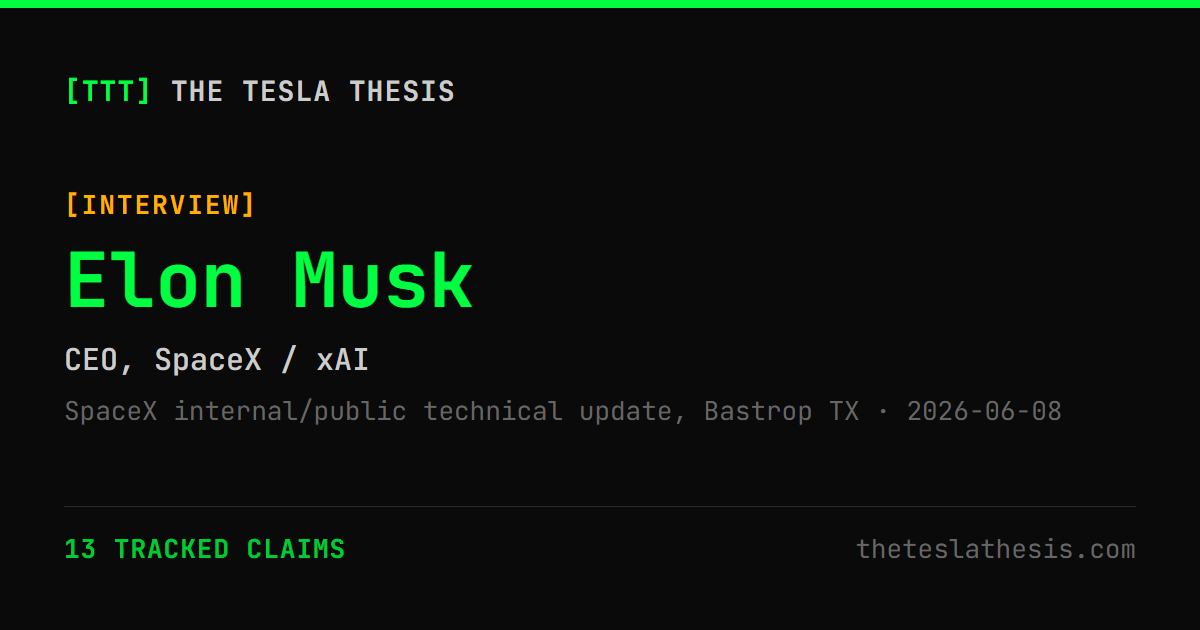
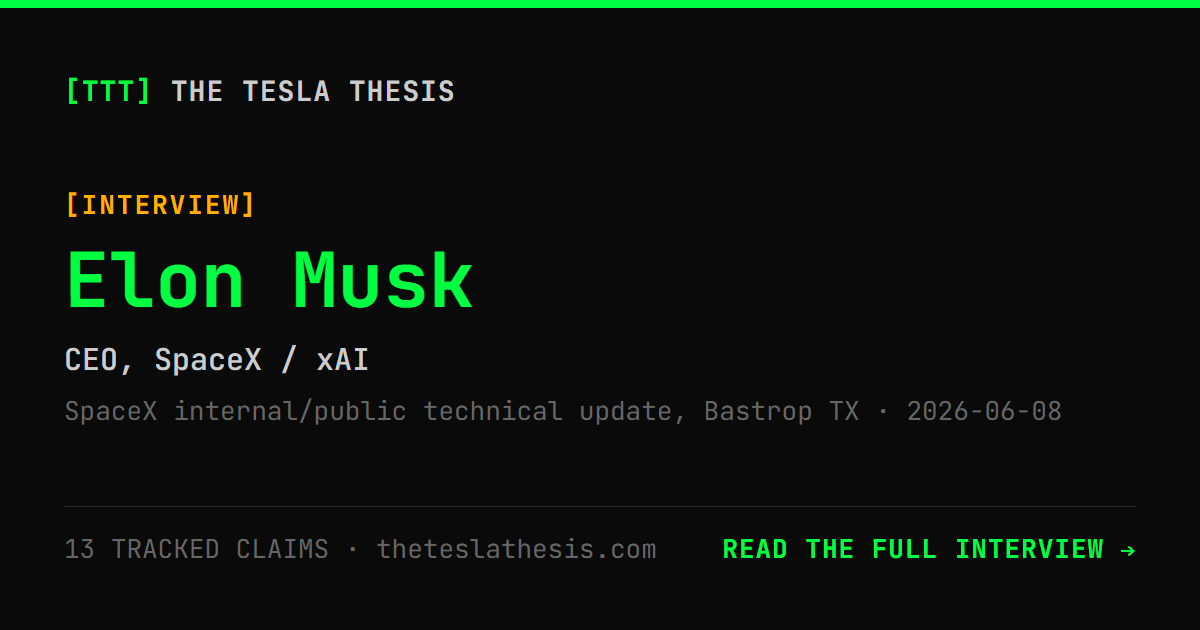
interviews: tune OG/meta descriptions + add card CTA
Addresses opengraph.xyz warnings on the /i/<slug>/ pages:
- og:description/twitter:description now ~120 chars (was 196) — fits
  social card previews without truncation
- meta description now ~150 chars — SERP snippet sweet spot (120-160)
- both truncate at a sentence/word boundary instead of mid-word
- OG card: swap the plain domain for a green "READ THE FULL INTERVIEW →"
  call-to-action (domain kept alongside the claims count, dimmed)

Regenerated the two committed cards.

Changed region(s): [[0.0617, 0.8444, 0.555, 0.9048], [0.5858, 0.8444, 0.9558, 0.9048]]

diff --git a/scripts/build-interview-pages.js b/scripts/build-interview-pages.js
@@ -35,8 +35,9 @@ function venueShort(venue) {
 }
 
 // First prose paragraph of the summary (the opening scene-setter), flattened to
-// a plain-text meta description of ~200 chars.
-function description(summary) {
+// plain text. Truncation happens per-target in buildShell (social vs SERP want
+// different lengths).
+function firstParagraph(summary) {
   const lines = summary.split('\n');
   const para = [];
   for (const line of lines) {
@@ -47,14 +48,17 @@ function description(summary) {
     }
     para.push(t);
   }
-  let text = para.join(' ')
-    .replace(/\*\*/g, '')
-    .replace(/\s+/g, ' ')
-    .trim();
-  if (text.length > 200) {
-    text = text.slice(0, 200).replace(/\s+\S*$/, '') + '…';
-  }
-  return text;
+  return para.join(' ').replace(/\*\*/g, '').replace(/\s+/g, ' ').trim();
+}
+
+// Truncate to <=max, preferring a sentence boundary, else a word boundary (with
+// an ellipsis). No trailing ellipsis when we land cleanly on a sentence end.
+function truncate(text, max) {
+  if (text.length <= max) return text;
+  const slice = text.slice(0, max);
+  const lastSentence = slice.lastIndexOf('. ');
+  if (lastSentence > max * 0.6) return slice.slice(0, lastSentence + 1);
+  return slice.replace(/\s+\S*$/, '').trim() + '…';
 }
 
 function setMetaContent(html, matchAttr, value) {
@@ -72,7 +76,10 @@ function buildShell(template, iv) {
   const url = `${SITE}/i/${iv.slug}/`;
   const ogTitle = `${name} on ${venue}`;
   const pageTitle = `${ogTitle} | The Tesla Thesis`;
-  const desc = description(iv.summary) || `Primary-source interview summary and tracked claims from ${name}, on The Tesla Thesis.`;
+  const para = firstParagraph(iv.summary) || `Primary-source interview summary and tracked claims from ${name}, on The Tesla Thesis.`;
+  // SERP meta descriptions read best at ~150-160; social cards truncate ~125.
+  const desc = truncate(para, 155);
+  const socialDesc = truncate(para, 120);
   // Per-interview OG card if it was rendered + committed (public/og → dist/og);
   // otherwise the generic site card already in the template.
   const image = fs.existsSync(path.join(DIST, 'og', `${iv.slug}.png`)) ? `${SITE}/og/${iv.slug}.png` : null;
@@ -82,10 +89,10 @@ function buildShell(template, iv) {
   html = html.replace(/(<link rel="canonical"[^>]*href=")[^"]*("[^>]*>)/, `$1${url}$2`);
   html = setMetaContent(html, 'name="description"', desc);
   html = setMetaContent(html, 'property="og:title"', ogTitle);
-  html = setMetaContent(html, 'property="og:description"', desc);
+  html = setMetaContent(html, 'property="og:description"', socialDesc);
   html = setMetaContent(html, 'property="og:url"', url);
   html = setMetaContent(html, 'name="twitter:title"', ogTitle);
-  html = setMetaContent(html, 'name="twitter:description"', desc);
+  html = setMetaContent(html, 'name="twitter:description"', socialDesc);
   // og:type website → article for a content page
   html = html.replace(/(<meta property="og:type"[^>]*content=")[^"]*("[^>]*>)/, `$1article$2`);
   if (image) {

diff --git a/scripts/build-og-images.js b/scripts/build-og-images.js
@@ -73,8 +73,8 @@ function cardHtml(iv) {
   .role { color: ${C.textBright}; font-size: 30px; font-weight: 500; margin-top: 20px; }
   .meta { color: ${C.textDim}; font-size: 26px; margin-top: 14px; }
   .foot { display: flex; justify-content: space-between; align-items: baseline; border-top: 1px solid ${C.border}; padding-top: 24px; }
-  .foot .claims { color: ${C.greenDim}; font-size: 26px; font-weight: 700; letter-spacing: 1px; }
-  .foot .url { color: ${C.textDim}; font-size: 26px; }
+  .foot .claims { color: ${C.textDim}; font-size: 26px; }
+  .foot .cta { color: ${C.green}; font-size: 26px; font-weight: 700; letter-spacing: 1px; }
 </style></head>
 <body>
   <div class="head"><span class="brand">[TTT]</span> <span class="name">THE TESLA THESIS</span></div>
@@ -85,8 +85,8 @@ function cardHtml(iv) {
     <div class="meta">${esc(meta)}</div>
   </div>
   <div class="foot">
-    <span class="claims">${esc(claims)}</span>
-    <span class="url">theteslathesis.com</span>
+    <span class="claims">${esc([claims, 'theteslathesis.com'].filter(Boolean).join('  ·  '))}</span>
+    <span class="cta">READ THE FULL INTERVIEW →</span>
   </div>
 </body></html>`;
 }
